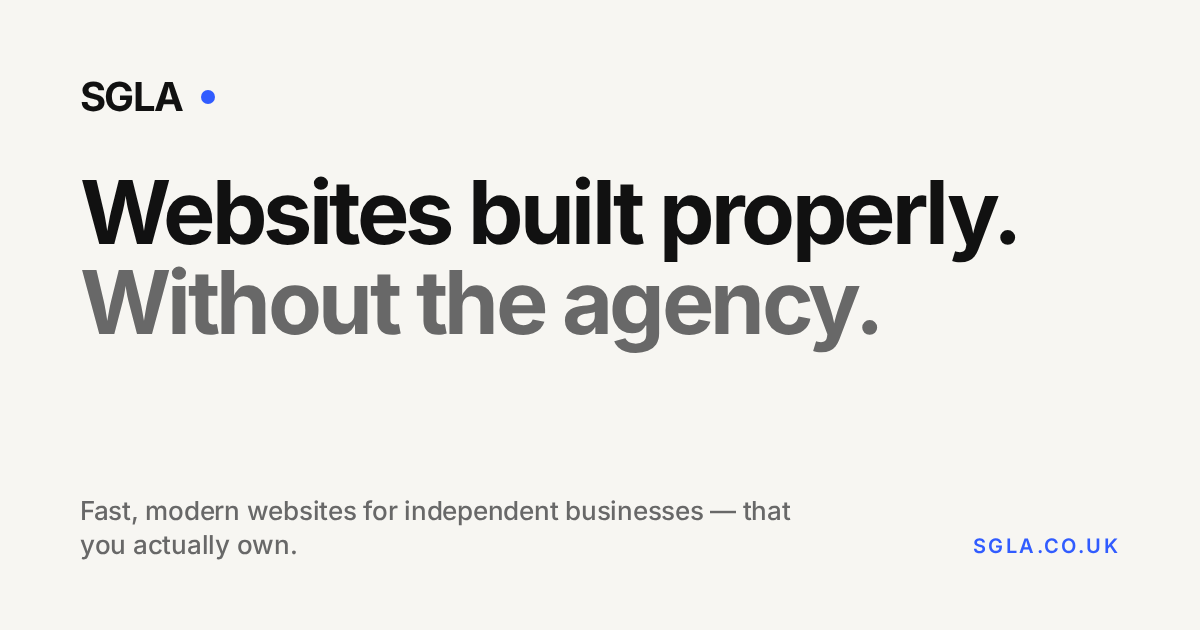
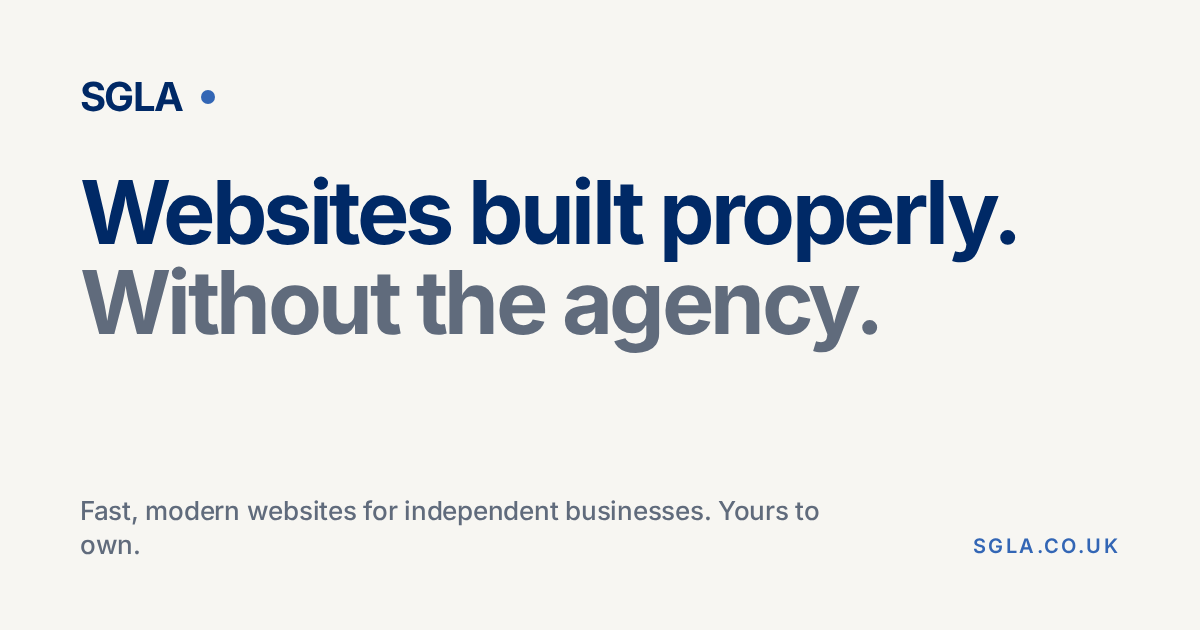
Add navy palette, remove em dashes, use real client work
- Tailwind-style navy ramp generated in OKLCH from #002966 (step 900),
  exposed as --navy-50..950. Semantic tokens point at the ramp; greys
  carry the hue so they read as one family. All text passes WCAG AA.
- Rewrite every em-dash sentence rather than swapping the character:
  page titles take a pipe, parentheticals take commas or colons.
- Replace the placeholder project with Rooiberg Wander and Engela Health.

diff --git a/src/styles/global.css b/src/styles/global.css
@@ -5,23 +5,43 @@
    ========================================================================== */
 
 :root {
-  /* Colour */
+  /* --------------------------------------------------------------------
+     Navy palette, generated in OKLCH from the brand colour #002966 (900).
+     Tailwind-style 50–950 steps so future client work can reuse the ramp.
+     -------------------------------------------------------------------- */
+  --navy-50: #eff8ff;
+  --navy-100: #deeeff;
+  --navy-200: #c2deff;
+  --navy-300: #9ec6ff;
+  --navy-400: #72a3f1;
+  --navy-500: #4d82d5;
+  --navy-600: #3366b5;
+  --navy-700: #224f95;
+  --navy-800: #163f7d;
+  --navy-900: #002966;
+  --navy-950: #011942;
+
+  /* Semantic colour. Neutrals carry a little of the navy hue so greys,
+     borders and text read as one family rather than as grey-on-blue. */
   --color-bg: #f7f6f2;
-  --color-surface: #ecebe6;
-  --color-ink: #111111;
-  --color-text: #171717;
-  --color-muted: #686868;
-  --color-accent: #315cff;
-  --color-accent-strong: #1f44d6;
-  --color-border: rgb(17 17 17 / 0.12);
-  --color-border-strong: rgb(17 17 17 / 0.28);
+  --color-surface: #e8eef7;
+  --color-ink: var(--navy-900);
+  --color-text: #1c2532;
+  --color-muted: #606b7c;
+  --color-accent: var(--navy-600);
+  --color-accent-strong: var(--navy-700);
+  --color-border: rgb(0 41 102 / 0.14);
+  --color-border-strong: rgb(0 41 102 / 0.32);
   --color-error: #b3261e;
   --color-success: #1d6b3a;
 
   /* Inverse palette, applied on dark sections via .theme-dark */
-  --color-on-ink: #f7f6f2;
-  --color-on-ink-muted: rgb(247 246 242 / 0.62);
-  --color-on-ink-border: rgb(247 246 242 / 0.16);
+  --color-on-ink: #f1f6fe;
+  --color-on-ink-muted: rgb(241 246 254 / 0.68);
+  --color-on-ink-border: rgb(241 246 254 / 0.18);
+
+  /* Shadow tint, so elevation picks up the navy rather than going grey */
+  --shadow-color: 0 41 102;
 
   /* Typography */
   --font-sans: var(--font-inter), system-ui, -apple-system, 'Segoe UI', sans-serif;
@@ -67,7 +87,7 @@
 
   /* Misc */
   --header-height: 4.5rem;
-  --focus-ring: 0 0 0 3px var(--color-bg), 0 0 0 6px var(--color-accent);
+  --focus-ring: 0 0 0 3px var(--color-bg), 0 0 0 6px var(--color-accent-strong);
 }
 
 /* ---------- Reset / base ---------- */
@@ -189,22 +209,23 @@ a:hover {
 }
 
 ::selection {
-  background: var(--color-accent);
-  color: #fff;
+  background: var(--navy-200);
+  color: var(--navy-950);
 }
 
 /* ---------- Dark sections ---------- */
 
 .theme-dark {
-  --color-bg: var(--color-ink);
-  --color-surface: #1c1c1c;
+  --color-bg: var(--navy-950);
+  --color-surface: #17263d;
   --color-text: var(--color-on-ink);
   --color-muted: var(--color-on-ink-muted);
   --color-border: var(--color-on-ink-border);
-  --color-border-strong: rgb(247 246 242 / 0.4);
-  --color-accent: #6b8bff;
-  --color-accent-strong: #8aa3ff;
-  --focus-ring: 0 0 0 3px var(--color-ink), 0 0 0 6px var(--color-accent);
+  --color-border-strong: rgb(241 246 254 / 0.42);
+  /* Lighter steps of the same ramp, for contrast against the navy ground. */
+  --color-accent: var(--navy-300);
+  --color-accent-strong: var(--navy-200);
+  --focus-ring: 0 0 0 3px var(--navy-950), 0 0 0 6px var(--color-accent);
   background: var(--color-bg);
   color: var(--color-text);
 }

diff --git a/src/data/projects.ts b/src/data/projects.ts
@@ -1,5 +1,6 @@
 import type { ImageMetadata } from 'astro';
-import sglaImage from '@assets/work/sgla.png';
+import rooibergImage from '@assets/work/rooiberg-wander.png';
+import engelaImage from '@assets/work/engela-health.png';
 
 export interface Project {
   /** URL-safe identifier, used for anchors. */
@@ -27,16 +28,28 @@ export interface Project {
  */
 export const projects: Project[] = [
   {
-    slug: 'sgla',
-    name: 'SGLA',
-    category: 'Independent web development',
+    slug: 'rooiberg-wander',
+    name: 'Rooiberg Wander',
+    category: 'Walking safari, Limpopo',
     description:
-      'This site. Static-first, no client framework, self-hosted fonts, one serverless function for the form.',
-    image: sglaImage,
+      'A three-day guided walking safari in the Waterberg. Booking-led site built to load fast over patchy rural connections and to sell the trail on photography.',
+    image: rooibergImage,
     imageAlt:
-      'The SGLA homepage on a desktop browser, showing the headline "Websites built properly. Without the agency."',
-    url: 'https://sgla.co.uk',
-    technologies: ['Astro', 'TypeScript', 'Vercel'],
+      'The Rooiberg Wander homepage, showing a sunset over the Waterberg with the headline "Three Days. The Big Five. On Foot."',
+    url: 'https://rooibergwander.com',
+    technologies: ['Astro', 'Vercel'],
+  },
+  {
+    slug: 'engela-health',
+    name: 'Engela Health',
+    category: 'Clinical rehabilitation, London',
+    description:
+      'Oncology and cardiac exercise rehabilitation in Marylebone. A calm, credible site for a clinical service, with enquiries going straight to the practitioner.',
+    image: engelaImage,
+    imageAlt:
+      'The Engela Health homepage, showing runners beside a London lake at sunrise with the headline "The journey starts here".',
+    url: 'https://engelahealth.co.uk',
+    technologies: ['Next.js', 'Cloudflare'],
   },
 ];
 

diff --git a/src/pages/api/contact.ts b/src/pages/api/contact.ts
@@ -65,7 +65,7 @@ async function sendEmail(values: ContactPayload): Promise<void> {
 
   if (!RESEND_API_KEY) {
     if (import.meta.env.DEV) {
-      console.info('[contact] RESEND_API_KEY not set — submission logged instead:\n' + text);
+      console.info('[contact] RESEND_API_KEY not set, submission logged instead:\n' + text);
       return;
     }
     throw new Error('RESEND_API_KEY is not configured');
@@ -133,7 +133,7 @@ export const POST: APIRoute = async ({ request, redirect }) => {
     console.error('[contact] send failed:', error);
     return wantsJson
       ? json({ ok: false, message: 'Could not send your message.' }, 502)
-      : new Response('Sorry — that didn’t send. Please email francois@sgla.co.uk directly.', {
+      : new Response('Sorry, that didn’t send. Please email francois@sgla.co.uk directly.', {
           status: 502,
         });
   }

diff --git a/src/lib/structured-data.ts b/src/lib/structured-data.ts
@@ -1,7 +1,7 @@
 import { site } from '@data/site';
 import type { FaqItem } from '@data/faq';
 
-/** Organisation record. Factual only — no ratings, reviews or awards. */
+/** Organisation record. Factual only: no ratings, reviews or awards. */
 export const organisation = {
   '@context': 'https://schema.org',
   '@type': 'ProfessionalService',

diff --git a/README.md b/README.md
@@ -1,4 +1,4 @@
-# SGLA — sgla.co.uk
+# SGLA (sgla.co.uk)
 
 Marketing website for SGLA. Astro 7, TypeScript, plain CSS, deployed on Vercel.
 
@@ -11,6 +11,7 @@ Marketing website for SGLA. Astro 7, TypeScript, plain CSS, deployed on Vercel.
 | Framework | [Astro](https://astro.build) 7 | Static HTML by default, zero client JS unless a component asks for it |
 | Language | TypeScript (strict) | `astro check` runs against every `.astro` file |
 | Styling | Plain CSS with custom properties | No framework; tokens live in `src/styles/global.css` |
+| Colour | Navy ramp generated from `#002966` | Tailwind-style 50, 950 steps, built in OKLCH so the steps are perceptually even |
 | Fonts | Inter via Astro's Fonts API | Downloaded at build, self-hosted, subset to latin, preloaded |
 | Images | `astro:assets` + sharp | Responsive `srcset`, WebP, dimensions set (no layout shift) |
 | Form email | [Resend](https://resend.com) via `fetch` | No SDK dependency; API key stays server-side |
@@ -24,7 +25,7 @@ which is why `@astrojs/vercel` is installed.
 
 ```bash
 npm install
-cp .env.example .env     # optional — without RESEND_API_KEY, form submissions are logged to the console
+cp .env.example .env     # optional: without RESEND_API_KEY, submissions are logged to the console
 npm run dev              # http://localhost:4321
 ```
 
@@ -50,7 +51,7 @@ src/
 ├── pages/          One file per route + api/contact.ts
 ├── data/           site.ts (business facts, pricing, nav), projects.ts, faq.ts
 ├── lib/            contact.ts (shared validation), structured-data.ts (JSON-LD)
-├── styles/         global.css — design tokens, reset, layout primitives
+├── styles/         global.css, design tokens, reset, layout primitives
 └── assets/work/    Project screenshots (processed by astro:assets)
 public/             favicon, OG image, robots.txt, manifest
 ```
@@ -60,10 +61,21 @@ public/             favicon, OG image, robots.txt, manifest
 Prices, email, location, nav and CTA copy all live in `src/data/site.ts`. FAQ copy is in
 `src/data/faq.ts`. Change them once and every page updates.
 
+### Colour
+
+The palette is a Tailwind-style 50, 950 ramp generated in OKLCH from the brand navy `#002966`
+(which sits at step 900), exposed as `--navy-50` through `--navy-950` in `src/styles/global.css`.
+Semantic tokens (`--color-ink`, `--color-accent`, `--color-surface`, ...) point at those steps, so
+re-anchoring the ramp on a different brand colour re-themes the whole site.
+
+Greys are not neutral: text, muted text, borders and surfaces all carry a little of the navy hue
+so they read as one family. Every text/background pair on every page was measured at WCAG AA or
+better.
+
 ### Adding a project
 
 1. Put a screenshot in `src/assets/work/` (1600×1000 works well).
-2. Import it in `src/data/projects.ts` and add an entry. Only real, launched work — no invented case studies.
+2. Import it in `src/data/projects.ts` and add an entry. Only real, launched work, no invented case studies.
 3. The homepage shows the first three; `/work` shows all.
 
 ## Environment variables
